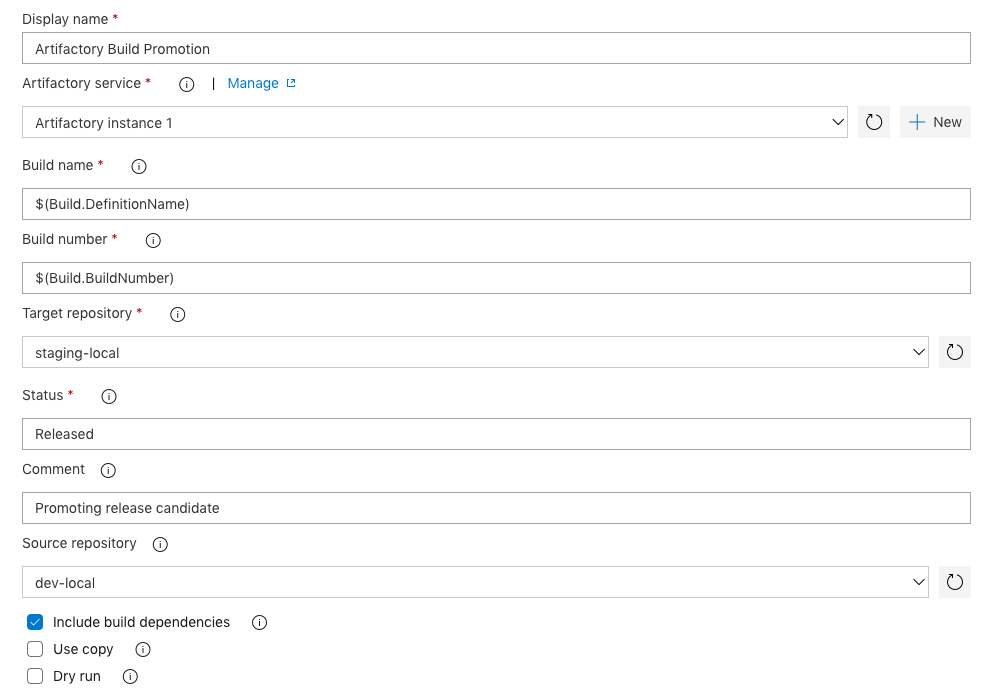
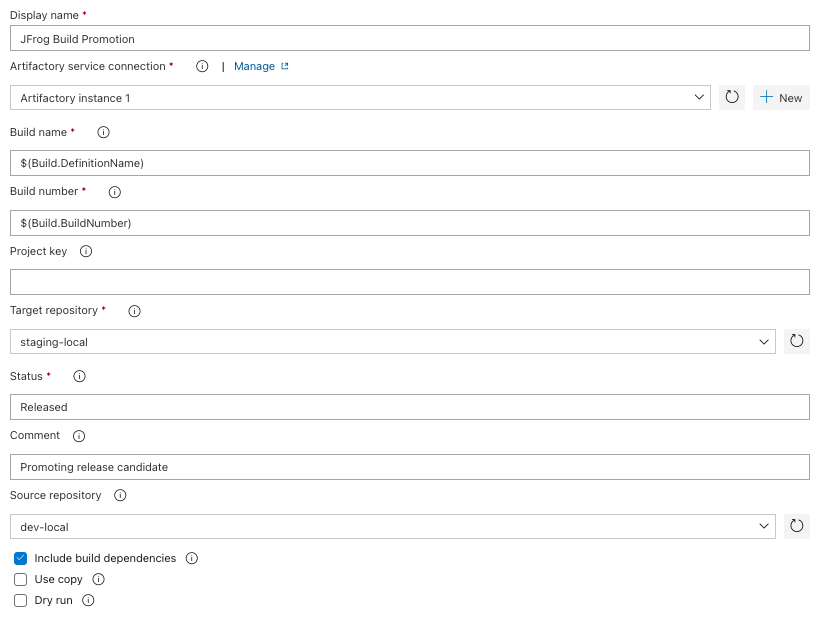
Update Overview (#291)

Changed region(s): [[0.0, 0.0, 0.978, 0.9838], [0.8252, 0.1537, 0.978, 0.1845], [0.9474, 0.4919, 0.978, 0.5227]]

diff --git a/tests/testUtils.ts b/tests/testUtils.ts
@@ -68,8 +68,7 @@ export function initTests(): void {
     tl.setVariable('Agent.TempDirectory', testDataDir);
     tl.setVariable('Agent.ToolsDirectory', testDataDir);
 
-    // TODO uncomment when eco is back to normal
-    // cleanUpOldRepositories();
+    cleanUpOldRepositories();
     recreateTestDataDir();
     createTestRepositories();
 }

diff --git a/tests/tests.ts b/tests/tests.ts
@@ -604,7 +604,7 @@ describe('JFrog Artifactory Extension Tests', (): void => {
             TestUtils.isSkipTest('maven')
         );
     });
-    // todo get latest extractor
+
     describe('Gradle Tests', (): void => {
         runSyncTest(
             'Gradle',

diff --git a/overview.md b/overview.md
@@ -1,101 +1,141 @@
 ## Overview
-**JFrog Artifactory** is a Universal Repository Manager supporting all major packaging formats and build tools.
+The **JFrog Platform** is a leading universal end-to-end DevOps platform for automating, managing, securing, distributing, orchestrating, monitoring, and optimizing your Cl/ CD pipeline.
 
-[Learn more](https://jfrog.com/artifactory/)
+[Learn more](https://jfrog.com/)
 
-Artifactory provides tight integration Azure DevOps through the **JFrog Artifactory Extension.** 
+**JFrog Platform** provides tight integration with Azure DevOps through the **JFrog Extension.** 
 In addition to managing efficient deployment of your artifacts to Artifactory, 
 the extension lets you capture information about your build's resolved dependencies and deployed artifacts. 
 Gain full traceability for your builds as the environment data associated with your build is automatically collected.
 
+[Learn more](https://jfrog.com/artifactory/)
+
 The extension currently supports the following package managers:
-Maven, Gradle, npm, NuGet, Go, Pip and Conan. It also allows downloading and uploading generic files from and to Artifactory.
+Maven, Gradle, Go, npm, NuGet, .NET Core, Pip and Conan. It also allows downloading and uploading generic files from and to Artifactory, and perform generic tasks on artifacts on Artifactory.
+
+**JFrog Xray** is an application security tool that integrates security directly into your DevOps workflows, enabling you to deliver trusted software releases faster.
+
+[Learn more](https://jfrog.com/xray/)
+
+The extension supports triggering a scan on a published build in Artifactory, or auditing a local project from sources.
 
 **JFrog Distribution** is a centralized platform that lets you provision software release distribution.
 
 [Learn more](https://jfrog.com/distribution/)
 
-The **JFrog Artifactory Extension** also allows managing Release Bundles and their distribution processes, including release content, and target destinations. 
+The **JFrog Extension** also allows managing Release Bundles and their distribution processes, including release content, and target destinations. 
 
 ## Documentation and source code
 The full extension documentation is available [here](https://www.jfrog.com/confluence/display/JFROG/Artifactory+Azure+DevOps+Extension).
 <br>
 See the source code is on [GitHub](https://github.com/jfrog/artifactory-azure-devops-extension).
 
-## Downloading generic build dependencies from Artifactory
-The **Artifactory Generic Download** task supports downloading your build dependencies from Artifactory to the build agent. 
-The task triggers the [JFrog CLI](https://www.jfrog.com/confluence/display/CLI/JFrog+CLI) to perform the download. The downloaded dependencies are defined using [File Specs](https://www.jfrog.com/confluence/display/CLI/CLI+for+JFrog+Artifactory#CLIforJFrogArtifactory-UsingFileSpecs) 
+## Generic artifacts handling
+The **JFrog Generic Artifacts** task allows performing generic actions on artifacts, such as:
+1. Downloading and uploading from/to Artifactory
+2. Setting or deleting properties on artifacts in Artifactory
+3. Moving, copying and deleting artifacts in Artifactory
+
+### Downloading generic build dependencies from Artifactory
+The task supports downloading your build dependencies from Artifactory to the build agent. 
+The downloaded dependencies are defined using [File Specs](https://www.jfrog.com/confluence/display/CLI/CLI+for+JFrog+Artifactory#CLIforJFrogArtifactory-UsingFileSpecs) 
 and can be also configured to capture the build-info. 
-It will store the downloaded files as dependencies in the build-info which can later be published to Artifactory using the **Artifactory Publish Build-Info** task.
+It will store the downloaded files as dependencies in the build-info which can later be published to Artifactory using the **JFrog Publish Build-Info** task.
 
 ![GenericDownload](images/marketplace/generic-download.png)
 
-## Uploading generic build artifacts to Artifactory
-The **Artifactory Generic Upload** task supports uploading your generated build artifacts from the build agent's local file system to Artifactory. 
-The task triggers the [JFrog CLI](https://www.jfrog.com/confluence/display/CLI/JFrog+CLI) to perform the upload. 
+### Uploading generic build artifacts to Artifactory
+The task also supports uploading your generated build artifacts from the build agent's local file system to Artifactory. 
 The artifacts are defined using [File Specs](https://www.jfrog.com/confluence/display/CLI/CLI+for+JFrog+Artifactory#CLIforJFrogArtifactory-UsingFileSpecs). 
-The task can be also configured to capture build-info and stores the uploaded files as artifacts in the build-info. The captured build-info can be later published to Artifactory using the **Artifactory Publish Build-Info** task.
+The task can be also configured to capture build-info and stores the uploaded files as artifacts in the build-info. The captured build-info can be later published to Artifactory using the **JFrog Publish Build-Info** task.
 
 ![GenericUpload](images/marketplace/generic-upload.png)
 
-## Triggering NuGet, .NET Core CLI, Maven, Gradle, npm, Go, Pip and Conan builds
-The extension adds the following tasks: **Artifactory NuGet**, **Artifactory .NET Core**, **Artifactory Maven**, **Artifactory Gradle**, **Artifactory npm** and **Artifactory Go** to support full build integration with Artifactory. All tasks allow resolving dependencies and deploying artifacts from and to Artifactory. These tasks can also be configured to capture build-info for the build. The captured build-info can be later published to Artifactory using the **Artifactory Publish Build-Info** task.
-
-![PackageManagers](images/marketplace/package-managers.png)
-
-## Setting / deleting properties on files in Artifactory
-The **Artifactory Properties** task allows setting and deleting properties on both files in Artifactory.
+### Setting / Deleting properties on files in Artifactory
+The JFrog Generic Artifacts task also allows both setting and deleting properties on artifacts in Artifactory.
 
 ![Props](images/marketplace/props.png)
 
-## Scanning builds with JFrog Xray
-The JFrog Artifactory extension integrates with JFrog Xray through JFrog Artifactory, allowing you to have build artifacts scanned for vulnerabilities and other issues using the **Artifactory Xray Scan** task.
-If issues or vulnerabilities are found, you may choose to fail a build.
+### Moving / Copying / Deleting artifacts in Artifactory
+Same task also allows performing generic actions on artifacts in Artifactory.
 
-![Xray](images/marketplace/xray.png)
+![Copy](images/marketplace/move-copy-delete.png)
+
+## Triggering NuGet, .NET Core CLI, Maven, Gradle, npm, Go, Pip and Conan builds
+The extension adds the following tasks - **JFrog NuGet**, **JFrog .NET Core**, **JFrog Maven**, **JFrog Gradle**, **JFrog npm**, **JFrog Go**, **JFrog Pip** and **JFrog Conan** to support full build integration with Artifactory. 
+
+All tasks allow resolving dependencies and deploying artifacts from and to Artifactory. 
+
+These tasks can also be configured to capture build-info for the build. The captured build-info can be later published to Artifactory using the **JFrog Publish Build-Info** task.
+
+![nuget](images/marketplace/nuget.png)
+![dotnet](images/marketplace/dotnet.png)
+![mvn](images/marketplace/mvn.png)
+![gradle](images/marketplace/gradle.png)
+![npm](images/marketplace/npm.png)
+![go](images/marketplace/go.png)
+![pip](images/marketplace/pip.png)
+![conan](images/marketplace/conan.png)
+
+## Scanning builds with JFrog Xray
+The JFrog Extension integrates with JFrog Xray, allowing you to have build artifacts scanned for vulnerabilities and other issues using the **JFrog Build Scan** task.
+If issues or vulnerabilities are found, you may choose to fail the build.
+
+![BuildScan](images/marketplace/build-scan.png)
+![Table](images/marketplace/violations-table.png)
+
+## Auditing projects for security vulnerabilities
+Using the **JFrog Audit** task, you can trigger a scan on your local project. The task will automatically detect the used package-manager to perform audit with integration with JFrog Xray.
+By default, the task will print a table of all vulnerabilities found to the logs. You may configure the task to only show violations, based of a Xray watches source of your preference.
+If any violation or vulnerabilities are found, you may choose to fail the build.
+
+![Audit](images/marketplace/audit.png)
 
 ## Recording tracked issues
-Being able to look at the build which was published to Artifactory, and see all the tracked issues (from JIRA for example) associated with it, is one of the most powerful capabilities of Artifactory when it comes to managing metadata about builds. The **Artifactory Collect Issues** tasks can automatically identify the issues handled in the current build, and record them as part of the build-info. Read more about this unique capability [here](https://www.jfrog.com/confluence/display/JFROG/Artifactory+Azure+DevOps+Extension#ArtifactoryAzureDevOpsExtension-CollectingBuildIssues).
+Being able to look at the build which was published to Artifactory, and see all the tracked issues (from JIRA for example) associated with it, is one of the most powerful capabilities of Artifactory when it comes to managing metadata about builds. The **JFrog Collect Issues** task can automatically identify the issues handled in the current build, and record them as part of the build-info. Read more about this unique capability [here](https://www.jfrog.com/confluence/display/JFROG/Artifactory+Azure+DevOps+Extension#ArtifactoryAzureDevOpsExtension-CollectingBuildIssues).
 
 ## Publishing build-info
-Build-info captured in preceding tasks can be published to Artifactory using the **Artifactory Publish Build-Info** task.
-The configured build name & number should match the ones specified when the build-info was captured.
+Build-info captured in preceding tasks can be published to Artifactory using the **JFrog Publish Build-Info** task.
+The configured build name & number, and the optional project key, should match the ones specified when the build-info was captured.
 
 ![BuildPublish](images/marketplace/build-publish.png)
 
 ## Promoting published builds 
 Artifactory supports promoting published builds from one repository to another, 
 to support the artifacts life-cycle. 
-The **Artifactory Promotion** task promotes a build, by either copying or moving the build artifacts and/or dependencies to a target repository. 
+The **JFrog Promotion** task promotes a build, by either copying or moving the build artifacts and/or dependencies to a target repository. 
 This task can be added as part of a Release pipeline, to support the release process.
 
 ![BuildPromotion](images/marketplace/build-promotion.png)
 
 ## Discarding published builds 
-The **Artifactory Discard Builds** task is used to discard previously published builds from Artifactory.
+The **JFrog Discard Builds** task is used to discard previously published builds from Artifactory.
 Builds are discarded according to the retention parameters configured in the task.
 
 ![Discard](images/marketplace/discard.png)
 
 ## Executing JFrog CLI commands
-The **JFrog CLI** task allows executing [JFrog CLI](https://www.jfrog.com/confluence/display/CLI/JFrog+CLI) commands, while using the pre-configured connection details of JFrog Artifactory, stored in Azure DevOps.
+The **JFrog CLI V2** task allows executing [JFrog CLI](https://www.jfrog.com/confluence/display/CLI/JFrog+CLI) commands, while using the pre-configured connection details of JFrog Platform, stored in Azure DevOps.
 
-## Accessing the Build-Info and the Xray scan report
+## Accessing the Build-Info
 You can access the build-info from the Build Results in Azure DevOps, if your build pipeline has published the build-info to Artifactory.
-You can also access the Xray scan report, if your build pipeline is configured to scan the build.
 
-![BuildInfo](images/marketplace/build-results.png)
+![BuildResults](images/marketplace/build-results.png)
 ![BuildInfo](images/marketplace/bi-in-artifactory.png)
-![BuildInfo](images/marketplace/xray-report-in-xray.png)
 
 ## Releasing published builds
-The **Artifactory Publish Build-Info** task allows publishing builds to Artifactory. By choosing Artifactory as an artifacts source in a Release, 
+The **JFrog Publish Build-Info** task allows publishing builds to Artifactory. By choosing Artifactory as an artifacts source in a Release, 
 you can select a published build, to make its artifacts available for the release.
 
 ![ArtifactsSource](images/marketplace/artifacts-source.png)
 
-## Handling Distribution
-The **Distribution** task allows managing release bundles.
+## Managing binaries distribution
+The **JFrog Distribution** task allows managing release bundles.
 The task provides the capability to create, update, sign, distribute or delete release bundles from JFrog Distribution.
 
 ![Distribution](images/marketplace/distribution.png)
+
+## Behind the scenes
+Most tasks trigger the [JFrog CLI](https://www.jfrog.com/confluence/display/CLI/JFrog+CLI) to perform the requested actions.
+The extension handles downloading and caching the JFrog CLI, which is done once per pipeline.
+You can configure the used JFrog CLI version, and configure to download it from your Artifactory instance using the **JFrog Tools Installer** task.
